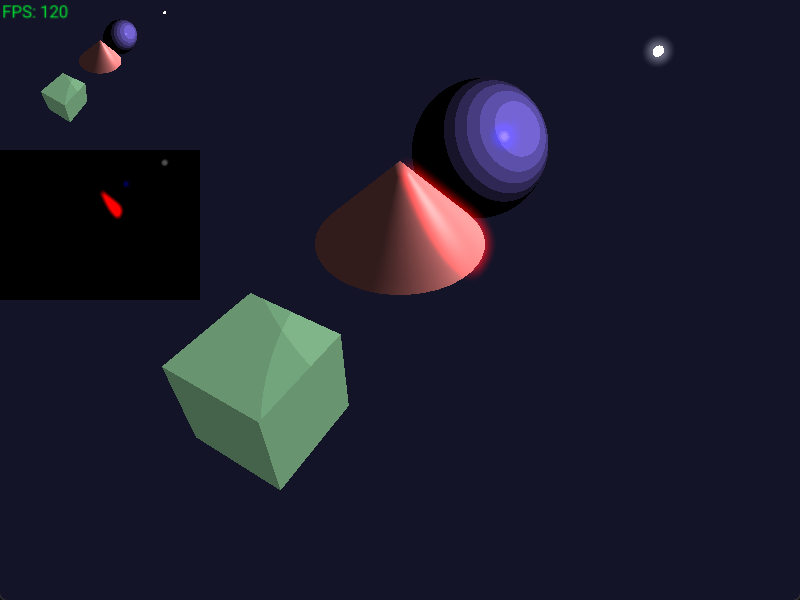
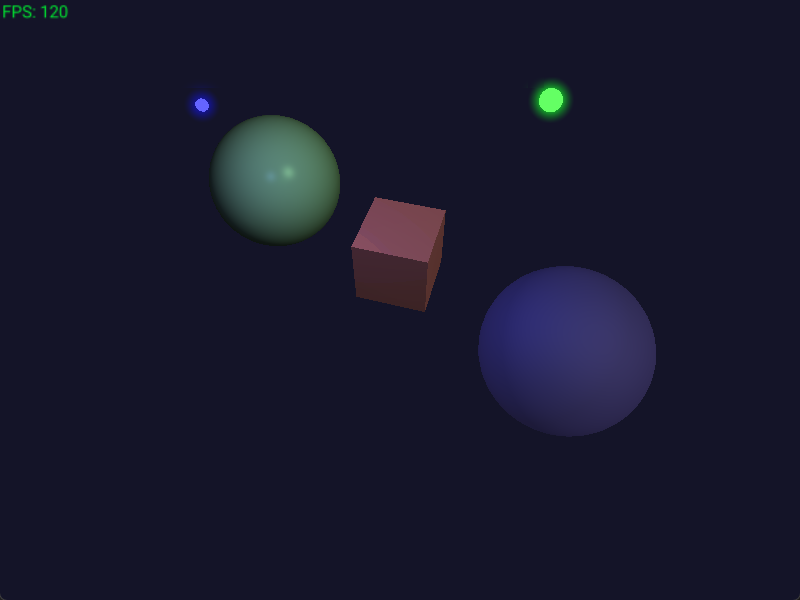
Updated camera controls

diff --git a/app.cpp b/app.cpp
@@ -30,7 +30,7 @@ void EventLoop::init() {
   Asset a1 = { Asset_ShadedModel };
   a1.sm = new ShadedModel;
   Model m1 = LoadModelFromMesh(GenMeshCube(2.0f, 2.0f, 2.0f));
-  Material mat1 = {(Color){255, 140, 140}, 0.2f, 1.0f, 0.8f, 16.0f, 0.0f};
+  Material mat1 = {(Color){255, 140, 140}, 0.2f, 1.0f, 0.8f, 16.0f, 12.0f};
   a1.sm->init(m1, (Vector3){0.0f, 2.0f, 0.0f}, mat1);
   assets.push_back(a1);
 
@@ -46,7 +46,7 @@ void EventLoop::init() {
   Asset a3 = { Asset_ShadedModel };
   a3.sm = new ShadedModel;
   Model m3 = LoadModelFromMesh(GenMeshSphere(2.0f, 40, 40));
-  Material mat3 = {(Color){140, 120, 255}, 0.4f, 0.8f, 0.5f, 64.0f, 0.0f};
+  Material mat3 = {(Color){140, 120, 255}, 0.4f, 0.4f, 0.1f, 2.0f, 0.0f};
   a3.sm->init(m3, (Vector3){0.0f, 2.0f, -5.0f}, mat3);
   assets.push_back(a3);
 
@@ -83,8 +83,14 @@ void EventLoop::update() {
     camera.position.x = nPos.x;
     camera.position.z = nPos.y;
   }
-  if (IsKeyDown(KEY_W) && camera.position.y < 25.0f) camera.position.y += 0.1f;
-  if (IsKeyDown(KEY_S) && camera.position.y > -10.0f) camera.position.y -= 0.1f;
+  if (IsKeyDown(KEY_W) && camera.position.y < 25.0f) {
+    camera.position.y += 0.1f;
+    camera.target.y = 0.0f;
+  }
+  if (IsKeyDown(KEY_S) && camera.position.y > -10.0f) {
+    camera.position.y -= 0.1f;
+    camera.target.y = 0.0f;
+  }
 
   // toggle rotation
   if (IsKeyPressed(KEY_SPACE)) paused = !paused;

diff --git a/README.md b/README.md
@@ -4,6 +4,11 @@ Simple raylib test project (basic 3D). The main goal of this project was to impl
 elements to properly emulate shade depth. This serves not only to expand my knowledge in raylib 3D
 rendering, but also GLSL and graphics processing.
 
+Includes:
+- basic materials system
+- basic lighting system
+- basic post processing (light bloom)
+
 <img src="assets/screenshot.png" alt="screenshot" height="500" />
 
 ## Installation (with MSYS2)
